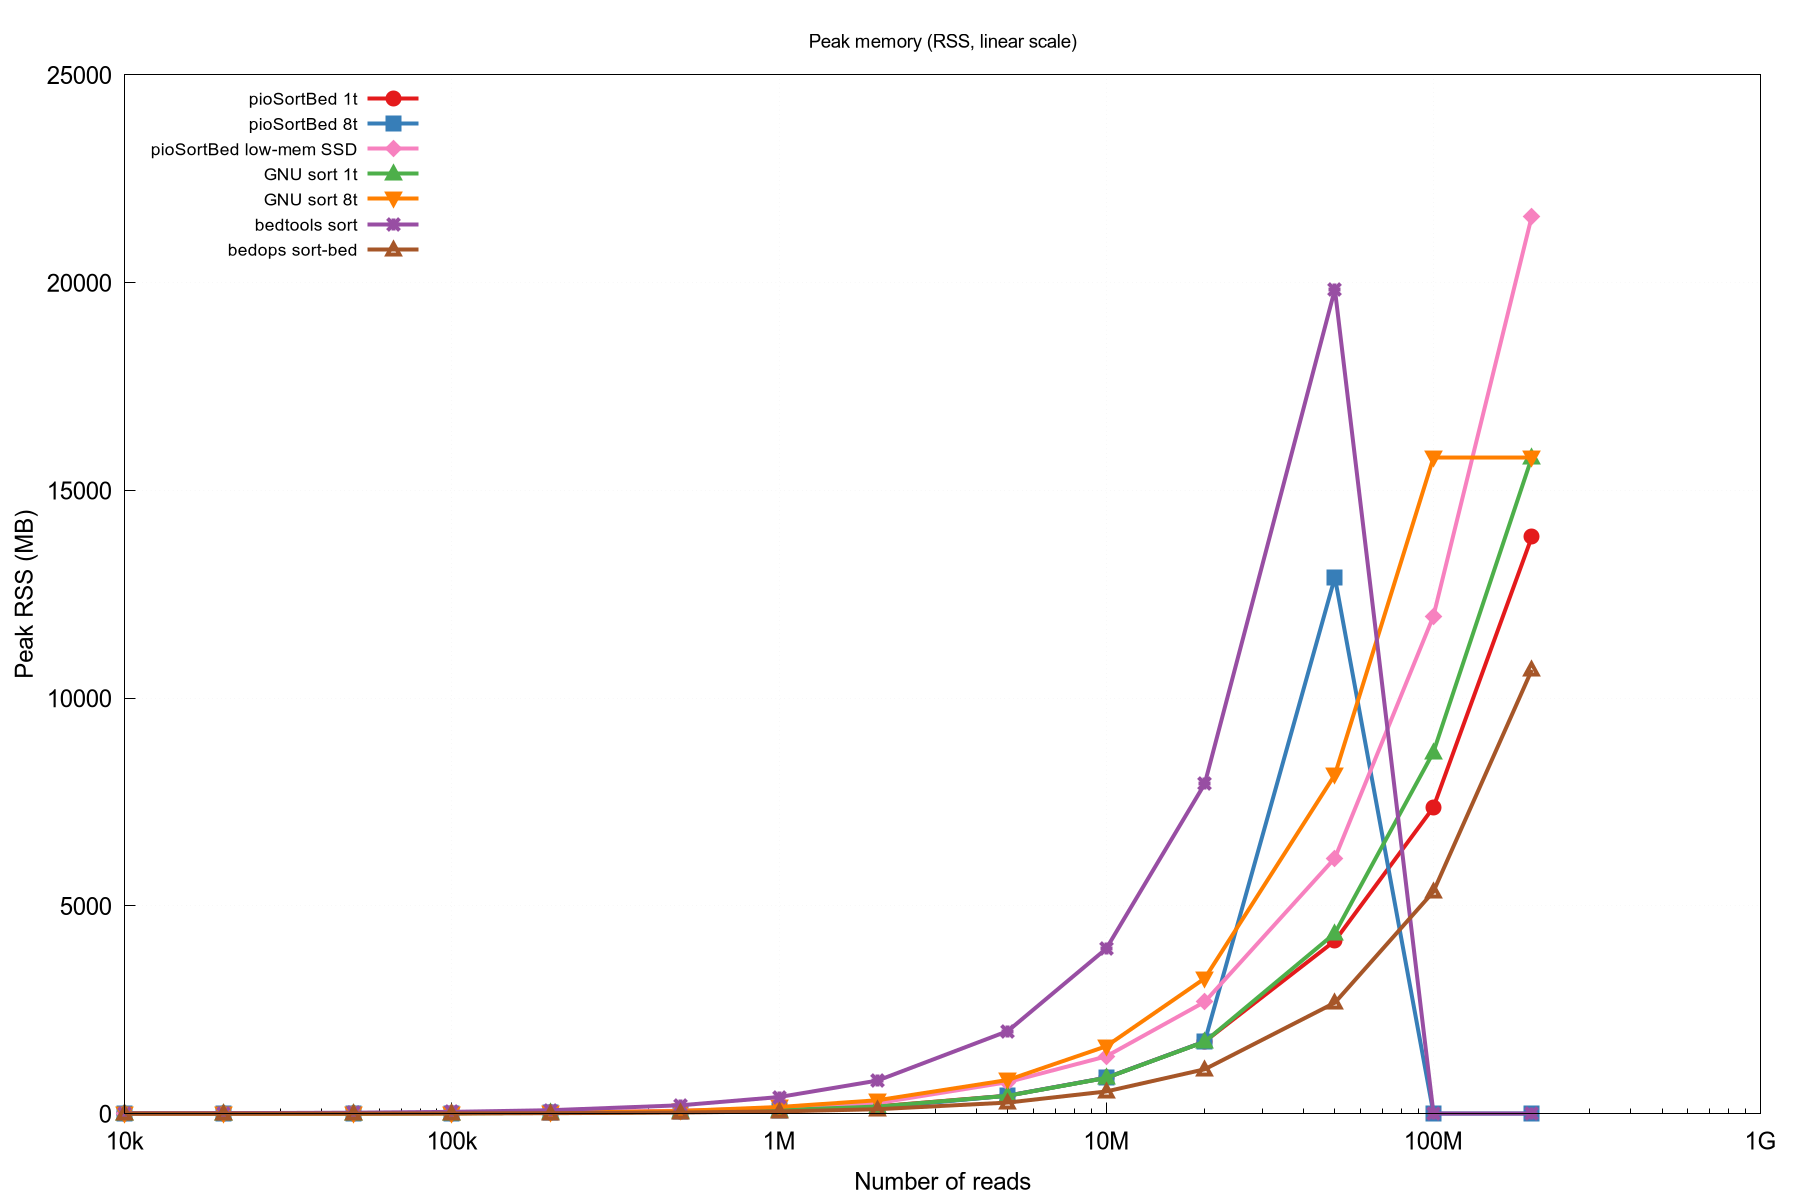
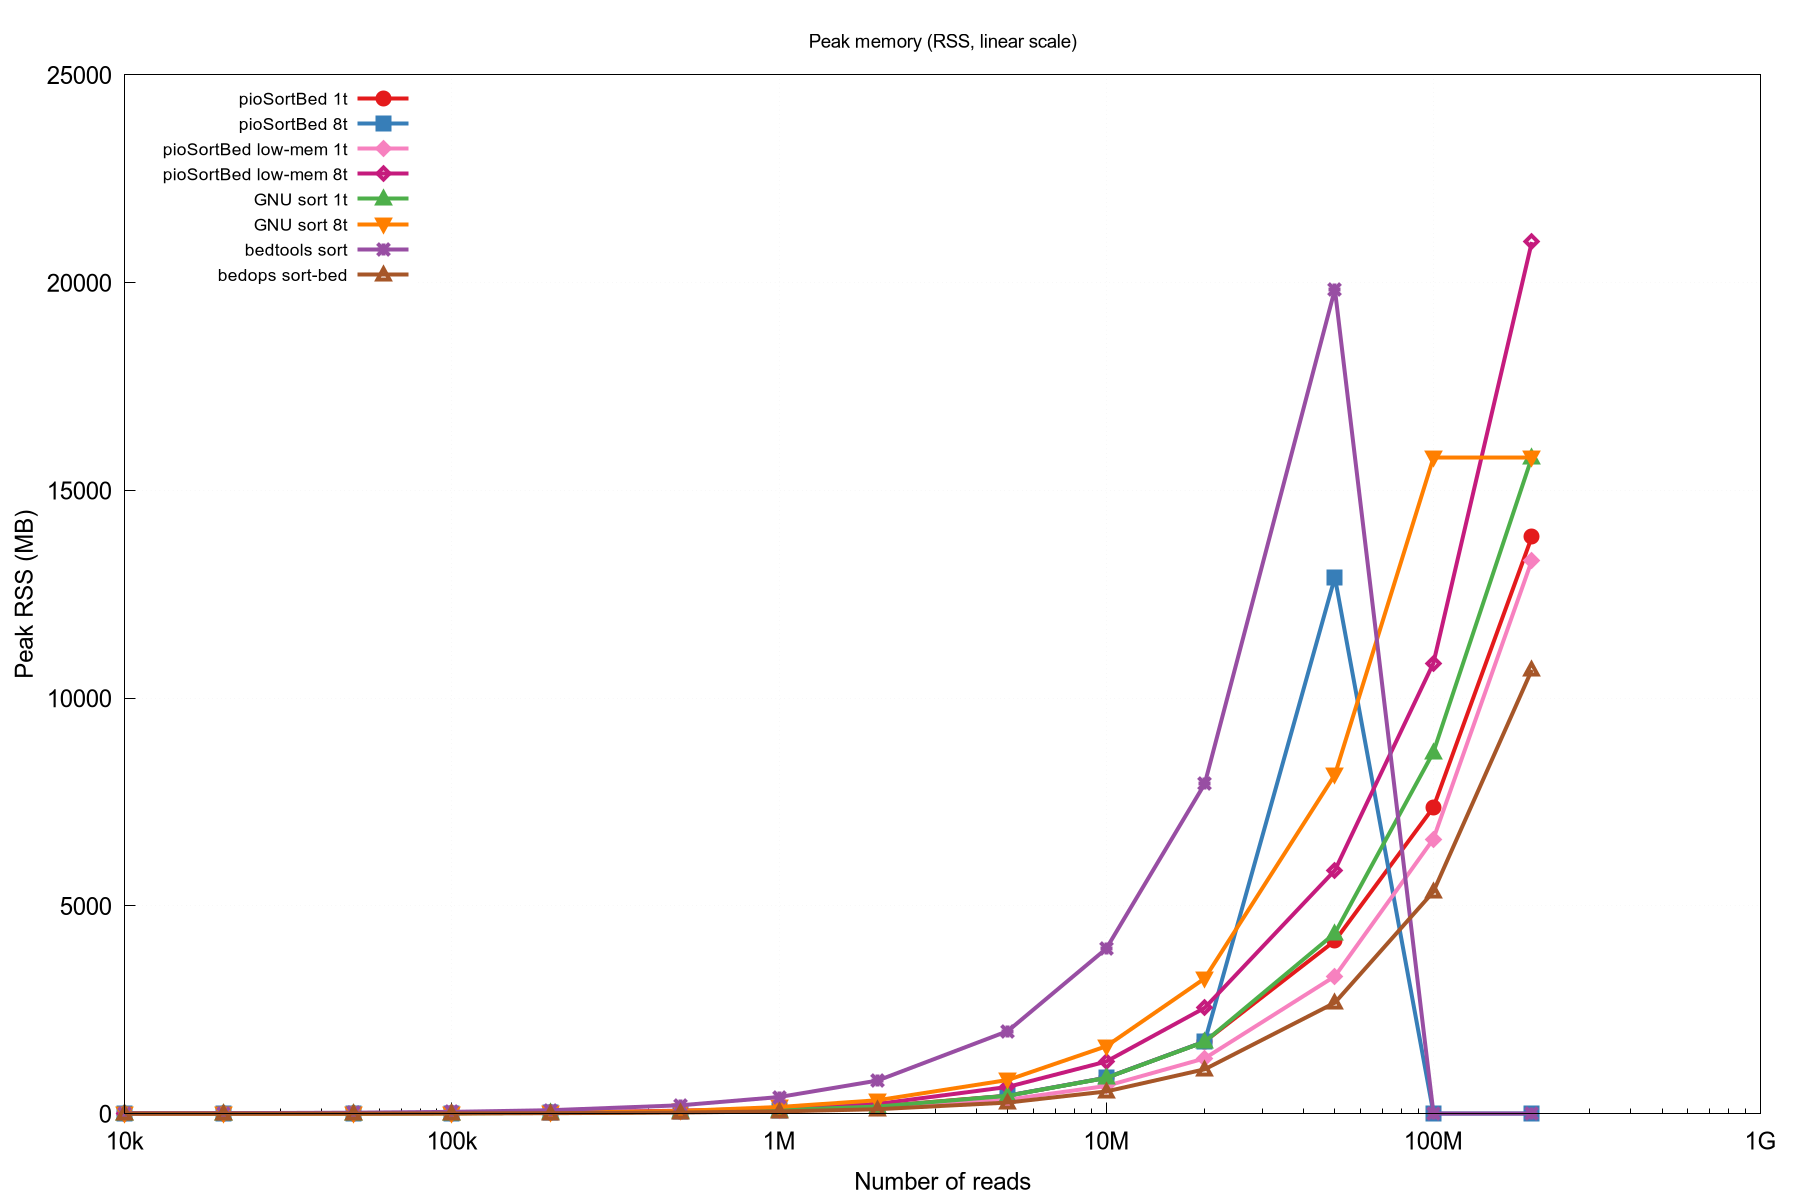
bench: split pio-lm into pio-lm-1t and pio-lm-8t (apples-to-apples)
Replaces the single pio-lm column (which was measured at default thread
count = all cores, 22 on the bench box) with two columns at -t 1 and -t 8,
matching the pio-1t / pio-8t and sort-1t / sort-8t convention.

The new pio-lm-1t and pio-lm-8t numbers were measured fresh on v3.0.0; all
other columns are unchanged from the previous run.

Headlines:
- pio-lm 8t at 200M (35.2 s, 21.0 GB) is the fastest config tested at that
  size: 3.0x faster than GNU sort 8t, 4.4x over bedops, 9.3x over GNU sort 1t.
- pio-lm 1t now beats pio 1t at 50M+ (50M: 16.3 s vs 19.7 s) AND uses ~20%
  less memory (3.3 GB vs 4.1 GB at 50M, 13.0 GB vs 13.6 GB at 200M).
- pio-lm 1t at 200M is the lowest-RAM pioSortBed mode (13.0 GB, vs 13.6 GB
  for pio-1t and 21.0 GB for pio-lm-8t).

Files:
- benchmark/benchmark_readme.csv: 17 cols (was 15) — added piolm1_*/piolm8_*.
- benchmark/plot_readme.gp: 8 line styles (was 7); pio-lm-1t kept as light
  pink filled diamond, pio-lm-8t as dark magenta open diamond.
- README.md: tools table now lists both -t 1 and -t 8 low-mem invocations,
  wall-time and memory tables get a new column each, legend gets the new
  entry, key observations updated, fairness caveat removed.
- benchmark/benchmark.sh: replaces the single pio-lm bench call with two
  (-t 1 and -t 8), updates table header/divider/CSV column count/awk CSV
  transform/speedup-summary header and body. The TODO comment that
  anticipated this round is gone.

diff --git a/README.md b/README.md
@@ -89,21 +89,14 @@ Comprehensive sorting benchmark on realistic BED6 files (10 chromosomes, coordin
 |------|---------|---------|
 | **pioSortBed** | 3.0.0 | `pioSortBed -t 1 input.bed` (single-thread) |
 | **pioSortBed** | 3.0.0 | `pioSortBed -t 8 input.bed` (8 threads) |
-| **pioSortBed** (low-mem) | 3.0.0 | `pioSortBed --low-mem-ssd input.bed` (recommended fast path for files) |
+| **pioSortBed** (low-mem) | 3.0.0 | `pioSortBed --low-mem-ssd -t 1 input.bed` (single-thread) |
+| **pioSortBed** (low-mem) | 3.0.0 | `pioSortBed --low-mem-ssd -t 8 input.bed` (8 threads, recommended fast path) |
 | **GNU sort** | 9.10 | `LC_ALL=C sort -k1,1 -k2,2n input.bed` (single-thread) |
 | **GNU sort** | 9.10 | `LC_ALL=C sort -k1,1 -k2,2n --parallel=8 input.bed` (8 threads) |
 | **bedtools** | 2.31.1 | `bedtools sort -i input.bed` |
 | **bedops sort-bed** | 2.4.42 | `sort-bed input.bed` |
 
 Wall time and peak RSS (resident set size) measured with GNU time. Times in seconds or milliseconds; memory in MB or GB.
-
-> **Caveat on the `pio low-mem` numbers below:** the current measurements were
-> taken with the default thread count, which is `all cores` (= 22 threads on
-> the benchmark CPU), while the `pio 1t` / `pio 8t` and `sort 1t` / `sort 8t`
-> columns use explicit `-t 1` / `-t 8` / `--parallel=1` / `--parallel=8`. So
-> `pio low-mem` has a thread-count advantage in the head-to-head against
-> `sort 8t` and `pio 8t`. A future benchmark round will report `pio low-mem`
-> at `-t 1` and `-t 8` explicitly so the comparison is apples-to-apples.
 
 
 ### Wall Time
@@ -118,47 +111,52 @@ Wall time and peak RSS (resident set size) measured with GNU time. Times in seco
 |---------------------|------------|-------------|-------------|
 | **pioSortBed 1t**   | <span style="color:#e41a1c">████</span> | ●           | Single-thread (default) |
 | **pioSortBed 8t**   | <span style="color:#377eb8">████</span> | ■           | 8 threads |
-| **pioSortBed low-mem** | <span style="color:#f781bf">████</span> | ◆        | Low-memory SSD mode |
+| **pioSortBed low-mem 1t** | <span style="color:#f781bf">████</span> | ◆     | Low-memory SSD mode (single-thread) |
+| **pioSortBed low-mem 8t** | <span style="color:#c51b7d">████</span> | ◇     | Low-memory SSD mode (8 threads, recommended fast path) |
 | **GNU sort 1t**     | <span style="color:#4daf4a">████</span> | ▲           | Single-thread |
 | **GNU sort 8t**     | <span style="color:#ff7f00">████</span> | ▼           | 8 threads |
 | **bedtools**        | <span style="color:#984ea3">████</span> | ✚           | bedtools sort |
 | **bedops**          | <span style="color:#a65628">████</span> | ✦           | bedops sort-bed |
 
-| Reads | pio 1t ● | pio 8t ■  | pio low-mem ◆ | sort 1t ▲  | sort 8t ▼  | bedtools ✚ | bedops ✦   |
-|------:|---------:|----------:|--------------:|-----------:|-----------:|-----------:|-----------:|
-| 10k   | 0 ms     | 0 ms      | 0 ms          | 10 ms      | 0 ms       | 10 ms      | 0 ms       |
-| 20k   | 0 ms     | 0 ms      | 0 ms          | 10 ms      | 10 ms      | 20 ms      | 10 ms      |
-| 50k   | 10 ms    | 10 ms     | 0 ms          | 30 ms      | 30 ms      | 40 ms      | 30 ms      |
-| 100k  | 10 ms    | 10 ms     | 10 ms         | 70 ms      | 70 ms      | 90 ms      | 50 ms      |
-| 200k  | 30 ms    | 20 ms     | 10 ms         | 150 ms     | 90 ms      | 170 ms     | 110 ms     |
-| 500k  | 100 ms   | 70 ms     | 30 ms         | 410 ms     | 160 ms     | 450 ms     | 290 ms     |
-| 1M    | 210 ms   | 170 ms    | **70 ms**     | 880 ms     | 320 ms     | 920 ms     | 590 ms     |
-| 2M    | 440 ms   | 350 ms    | **140 ms**    | 1870 ms    | 630 ms     | 1930 ms    | 1360 ms    |
-| 5M    | 1120 ms  | 880 ms    | **320 ms**    | 5170 ms    | 1670 ms    | 4680 ms    | 3310 ms    |
-| 10M   | 2250 ms  | 1780 ms   | **590 ms**    | 11.29 s    | 3450 ms    | 9610 ms    | 6540 ms    |
-| 20M   | 4620 ms  | 3640 ms   | **1270 ms**   | 24.48 s    | 7120 ms    | 19.93 s    | 14.26 s    |
-| 50M   | 19.74 s  | 6150 ms   | **2.99 s**    | 1min07.2s  | 19.85 s    | 53.10 s    | 34.42 s    |
-| 100M  | 35.66 s  | —         | **6.83 s**    | 2min24.0s  | 51.21 s    | —          | 1min07.7s  |
-| 200M  | 1min08.4s | —        | **22.72 s**   | 5min28.5s  | 1min45.5s  | —          | 2min34.6s  |
+| Reads | pio 1t ● | pio 8t ■  | pio low-mem 1t ◆ | pio low-mem 8t ◇ | sort 1t ▲  | sort 8t ▼  | bedtools ✚ | bedops ✦   |
+|------:|---------:|----------:|-----------------:|-----------------:|-----------:|-----------:|-----------:|-----------:|
+| 10k   | 0 ms     | 0 ms      | 0 ms             | 0 ms             | 10 ms      | 0 ms       | 10 ms      | 0 ms       |
+| 20k   | 0 ms     | 0 ms      | 10 ms            | 10 ms            | 10 ms      | 10 ms      | 20 ms      | 10 ms      |
+| 50k   | 10 ms    | 10 ms     | 20 ms            | 10 ms            | 30 ms      | 30 ms      | 40 ms      | 30 ms      |
+| 100k  | 10 ms    | 10 ms     | 30 ms            | 20 ms            | 70 ms      | 70 ms      | 90 ms      | 50 ms      |
+| 200k  | 30 ms    | 20 ms     | 60 ms            | 30 ms            | 150 ms     | 90 ms      | 170 ms     | 110 ms     |
+| 500k  | 100 ms   | 70 ms     | 110 ms           | 70 ms            | 410 ms     | 160 ms     | 450 ms     | 290 ms     |
+| 1M    | 210 ms   | 170 ms    | 230 ms           | **150 ms**       | 880 ms     | 320 ms     | 920 ms     | 590 ms     |
+| 2M    | 440 ms   | 350 ms    | 550 ms           | **280 ms**       | 1870 ms    | 630 ms     | 1930 ms    | 1360 ms    |
+| 5M    | 1120 ms  | 880 ms    | 1670 ms          | **660 ms**       | 5170 ms    | 1670 ms    | 4680 ms    | 3310 ms    |
+| 10M   | 2250 ms  | 1780 ms   | 3190 ms          | **1330 ms**      | 11.29 s    | 3450 ms    | 9610 ms    | 6540 ms    |
+| 20M   | 4620 ms  | 3640 ms   | 6390 ms          | **2500 ms**      | 24.48 s    | 7120 ms    | 19.93 s    | 14.26 s    |
+| 50M   | 19.74 s  | 6150 ms   | 16.34 s          | **5880 ms**      | 1min07.2s  | 19.85 s    | 53.10 s    | 34.42 s    |
+| 100M  | 35.66 s  | —         | 32.25 s          | **10.16 s**      | 2min24.0s  | 51.21 s    | —          | 1min07.7s  |
+| 200M  | 1min08.4s | —        | 1min09.0s        | **35.16 s**      | 5min28.5s  | 1min45.5s  | —          | 2min34.6s  |
 
 > Sub-50 ms timings (10k–50k) bottom out at GNU `time`'s 10 ms resolution; raw 0 ms readings just mean the tool finished faster than the timer can resolve.
 >
-> `pio 8t` and `bedtools` are skipped at 100M+ because they would exceed the 30 GB RAM available on this hardware. `pio 8t` allocates a per-chromosome `chromTable` slab on each worker (chr1 alone is ~1 GB), and `bedtools` memory grows linearly with the input. Use `pioSortBed --low-mem-ssd` instead at those sizes.
+> `pio 8t` and `bedtools` are skipped at 100M+ because they would exceed the 30 GB RAM available on this hardware. `pio 8t` allocates a per-chromosome `chromTable` slab on each worker (chr1 alone is ~1 GB), and `bedtools` memory grows linearly with the input. Use `pioSortBed --low-mem-ssd -t 8` instead at those sizes.
 
 **Key observations:**
-- **`pioSortBed --low-mem-ssd` is the fastest configuration at every size from
-  50k upwards.** Despite the name, "low-mem" is now also "fast": both passes
+- **`pioSortBed --low-mem-ssd -t 8` is the fastest configuration at every size from
+  1M upwards.** Despite the name, "low-mem" is now also "fast": both passes
   are parallelised, and the per-line index uses a flat 24-byte node table
   instead of a chromosome-length scratch slab. At 200M reads (8.6 GB BED file),
-  it's **22.72 s — 4.6× faster than GNU sort 8t, 6.8× over bedops, 14.5× over
+  it's **35.2 s — 3.0× faster than GNU sort 8t, 4.4× over bedops, 9.3× over
   GNU sort 1t**.
+- **`pioSortBed --low-mem-ssd -t 1` beats `pioSortBed -t 1` from 50M upwards**
+  (50M: 16.3 s vs 19.7 s) and uses ~20% less memory (3.3 GB vs 4.1 GB). At
+  smaller sizes the two-pass overhead makes the regular path faster, but the
+  low-mem path scales better.
 - **`pioSortBed 1t`** (with the LSD radix sort) beats GNU sort 1t by 3–5× across
   the whole range and stays competitive with GNU sort 8t up through 2M.
 - **`bedops sort-bed`** remains the closest single-threaded competitor and uses
   the least memory of any tool tested at small sizes.
 - The regular `pioSortBed -t 8` parallel bucket-sort path is fast at 50M
   (6.15 s) but its per-thread `chromTable` slabs scale linearly with the
-  largest chromosome. For large inputs, `--low-mem-ssd` strictly dominates.
+  largest chromosome. For large inputs, `--low-mem-ssd -t 8` strictly dominates.
 
 ### Peak Memory (RSS)
 
@@ -166,39 +164,42 @@ Wall time and peak RSS (resident set size) measured with GNU time. Times in seco
 
 ![Peak memory usage (linear scale)](benchmark/benchmark_memory_linear.png)
 
-| Reads | pio 1t ●  | pio 8t ■    | pio low-mem ◆ | sort 1t ▲ | sort 8t ▼ | bedtools ✚ | bedops ✦   |
-|------:|----------:|------------:|--------------:|----------:|----------:|-----------:|-----------:|
-| 10k   | 6.6 MB    | 6.7 MB      | 8.0 MB        | 3.3 MB    | 3.2 MB    | 8.8 MB     | 2.0 MB     |
-| 20k   | 7.7 MB    | 7.1 MB      | 9.8 MB        | 3.2 MB    | 3.3 MB    | 12.4 MB    | 2.5 MB     |
-| 50k   | 10.4 MB   | 11.1 MB     | 14.4 MB       | 5.7 MB    | 5.4 MB    | 24.3 MB    | 3.9 MB     |
-| 100k  | 15.6 MB   | 16.4 MB     | 20.3 MB       | 9.8 MB    | 9.8 MB    | 44.1 MB    | 6.8 MB     |
-| 200k  | 26.1 MB   | 27.0 MB     | 37.3 MB       | 18.5 MB   | 21.3 MB   | 83.8 MB    | 12.0 MB    |
-| 500k  | 47.3 MB   | 47.5 MB     | 71.2 MB       | 43.8 MB   | 66.4 MB   | 202.9 MB   | 28.1 MB    |
-| 1M    | 90.1 MB   | 82.4 MB     | 134.3 MB      | 86.6 MB   | 161.9 MB  | 400.8 MB   | 54.8 MB    |
-| 2M    | 176.3 MB  | 145.8 MB    | 255.1 MB      | 172.7 MB  | 324.1 MB  | 797.8 MB   | 107.9 MB   |
-| 5M    | 434.6 MB  | 434.4 MB    | 760.3 MB      | 431.2 MB  | 811.3 MB  | 1.9 GB     | 268.2 MB   |
-| 10M   | 865.1 MB  | 865.1 MB    | 1.3 GB        | 861.4 MB  | 1.6 GB    | 3.9 GB     | 535.3 MB   |
-| 20M   | 1.7 GB    | 1.7 GB      | 2.6 GB        | 1.7 GB    | 3.2 GB    | 7.8 GB     | 1.0 GB     |
-| 50M   | 4.1 GB    | **12.6 GB** | **6.0 GB**    | 4.2 GB    | 8.0 GB    | 19.4 GB    | 2.6 GB     |
-| 100M  | 7.2 GB    | —           | **11.7 GB**   | 8.5 GB    | 15.4 GB   | —          | 5.2 GB     |
-| 200M  | 13.6 GB   | —           | **21.1 GB**   | 15.4 GB   | 15.4 GB   | —          | 10.4 GB    |
+| Reads | pio 1t ●  | pio 8t ■    | pio low-mem 1t ◆ | pio low-mem 8t ◇ | sort 1t ▲ | sort 8t ▼ | bedtools ✚ | bedops ✦   |
+|------:|----------:|------------:|-----------------:|-----------------:|----------:|----------:|-----------:|-----------:|
+| 10k   | 6.6 MB    | 6.7 MB      | 6.7 MB           | 7.6 MB           | 3.3 MB    | 3.2 MB    | 8.8 MB     | 2.0 MB     |
+| 20k   | 7.7 MB    | 7.1 MB      | 7.3 MB           | 8.5 MB           | 3.2 MB    | 3.3 MB    | 12.4 MB    | 2.5 MB     |
+| 50k   | 10.4 MB   | 11.1 MB     | 10.1 MB          | 14.4 MB          | 5.7 MB    | 5.4 MB    | 24.3 MB    | 3.9 MB     |
+| 100k  | 15.6 MB   | 16.4 MB     | 15.3 MB          | 18.7 MB          | 9.8 MB    | 9.8 MB    | 44.1 MB    | 6.8 MB     |
+| 200k  | 26.1 MB   | 27.0 MB     | 25.9 MB          | 31.8 MB          | 18.5 MB   | 21.3 MB   | 83.8 MB    | 12.0 MB    |
+| 500k  | 47.3 MB   | 47.5 MB     | 45.3 MB          | 73.2 MB          | 43.8 MB   | 66.4 MB   | 202.9 MB   | 28.1 MB    |
+| 1M    | 90.1 MB   | 82.4 MB     | 77.7 MB          | 121.5 MB         | 86.6 MB   | 161.9 MB  | 400.8 MB   | 54.8 MB    |
+| 2M    | 176.3 MB  | 145.8 MB    | 143.4 MB         | 236.3 MB         | 172.7 MB  | 324.1 MB  | 797.8 MB   | 107.9 MB   |
+| 5M    | 434.6 MB  | 434.4 MB    | 339.7 MB         | 644.5 MB         | 431.2 MB  | 811.3 MB  | 1.9 GB     | 268.2 MB   |
+| 10M   | 865.1 MB  | 865.1 MB    | 667.3 MB         | 1.2 GB           | 861.4 MB  | 1.6 GB    | 3.9 GB     | 535.3 MB   |
+| 20M   | 1.7 GB    | 1.7 GB      | 1.3 GB           | 2.5 GB           | 1.7 GB    | 3.2 GB    | 7.8 GB     | 1.0 GB     |
+| 50M   | 4.1 GB    | **12.6 GB** | **3.2 GB**       | 5.7 GB           | 4.2 GB    | 8.0 GB    | 19.4 GB    | 2.6 GB     |
+| 100M  | 7.2 GB    | —           | **6.5 GB**       | 10.6 GB          | 8.5 GB    | 15.4 GB   | —          | 5.2 GB     |
+| 200M  | 13.6 GB   | —           | **13.0 GB**      | 20.5 GB          | 15.4 GB   | 15.4 GB   | —          | 10.4 GB    |
 
-> `pio low-mem` at 100M+ uses `--max-mem=4G` to cap concurrent per-chromosome buffers.
+> `pio low-mem 8t` at 100M+ uses `--max-mem=4G` to cap concurrent per-chromosome buffers.
 
 **Key observations:**
-- **`pioSortBed --low-mem-ssd` is now the recommended fast path for files.**
-  It's strictly faster than `-t 8` at 50M+ AND uses ~half the memory there
-  (50M: 6.0 GB vs 12.6 GB). At 100M and 200M it's the only pioSortBed mode
-  that fits in RAM at all.
-- **Memory grows ~linearly with input for every tool.** At 200M: pio low-mem
-  21 GB, GNU sort 15 GB, bedops 10 GB. `bedtools` and `pio -t 8` would have
-  needed >32 GB and were skipped.
+- **`pioSortBed --low-mem-ssd -t 8` is the recommended fast path for files.**
+  At 50M+ it beats `pio -t 8` on both wall time and memory (50M: 5.88 s vs
+  6.15 s, 5.7 GB vs 12.6 GB). At 100M and 200M it's the only pioSortBed mode
+  besides single-threaded that fits in 32 GB RAM at all.
+- **`pioSortBed --low-mem-ssd -t 1` is the lowest-memory pioSortBed mode** —
+  matches or beats `pio -t 1` on memory at every size from 5M up (50M: 3.2 GB
+  vs 4.1 GB) and at 200M reads is the lowest-RAM pioSortBed mode at 13.0 GB.
+- **Memory grows ~linearly with input for every tool.** At 200M: pio-lm 8t
+  21 GB, pio-lm 1t 13 GB, GNU sort 15 GB, bedops 10 GB. `bedtools` and
+  `pio -t 8` would have needed >32 GB and were skipped.
 - **`bedops sort-bed`** uses the least memory throughout — a sensible choice
   on RAM-constrained systems where wall time isn't critical.
 - **`pioSortBed -t 8`** trades RAM for speed via per-thread `chromTable`
   slabs. The `--max-mem=N[GMK]` flag (v2.2.0+) lets you cap the peak in
-  exchange for wall time. For large inputs `--low-mem-ssd` is now strictly
-  better and `-t 8` is mainly useful below ~50M.
+  exchange for wall time. For large inputs `--low-mem-ssd -t 8` is now
+  strictly better and `pio -t 8` is mainly useful below ~50M.
 
 ### Performance Summary
 
